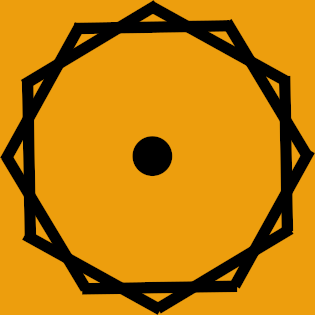
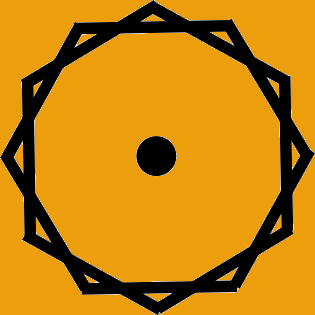
アイコンの調整とヘッダーロゴを追加

diff --git a/src/frontend/src/app/layout.tsx b/src/frontend/src/app/layout.tsx
@@ -175,9 +175,11 @@ export default function RootLayout({
 										>
 											<Toolbar sx={{ display: "flex", justifyContent: "center" }}>
 												<Box sx={{ flexGrow: 1 }}>
-													<Typography variant="h6" noWrap component="div">
-														Hoard
-													</Typography>
+													<img
+														src="/Hoard_logo.png"
+														alt="Hoard Logo"
+														style={{ height: 35, objectFit: "contain" }}
+													/>
 												</Box>
 												<Box sx={{ flexGrow: 1, display: "flex", justifyContent: "center" }}>{searchBar}</Box>
 												<Box sx={{ flexGrow: 1 }} />
